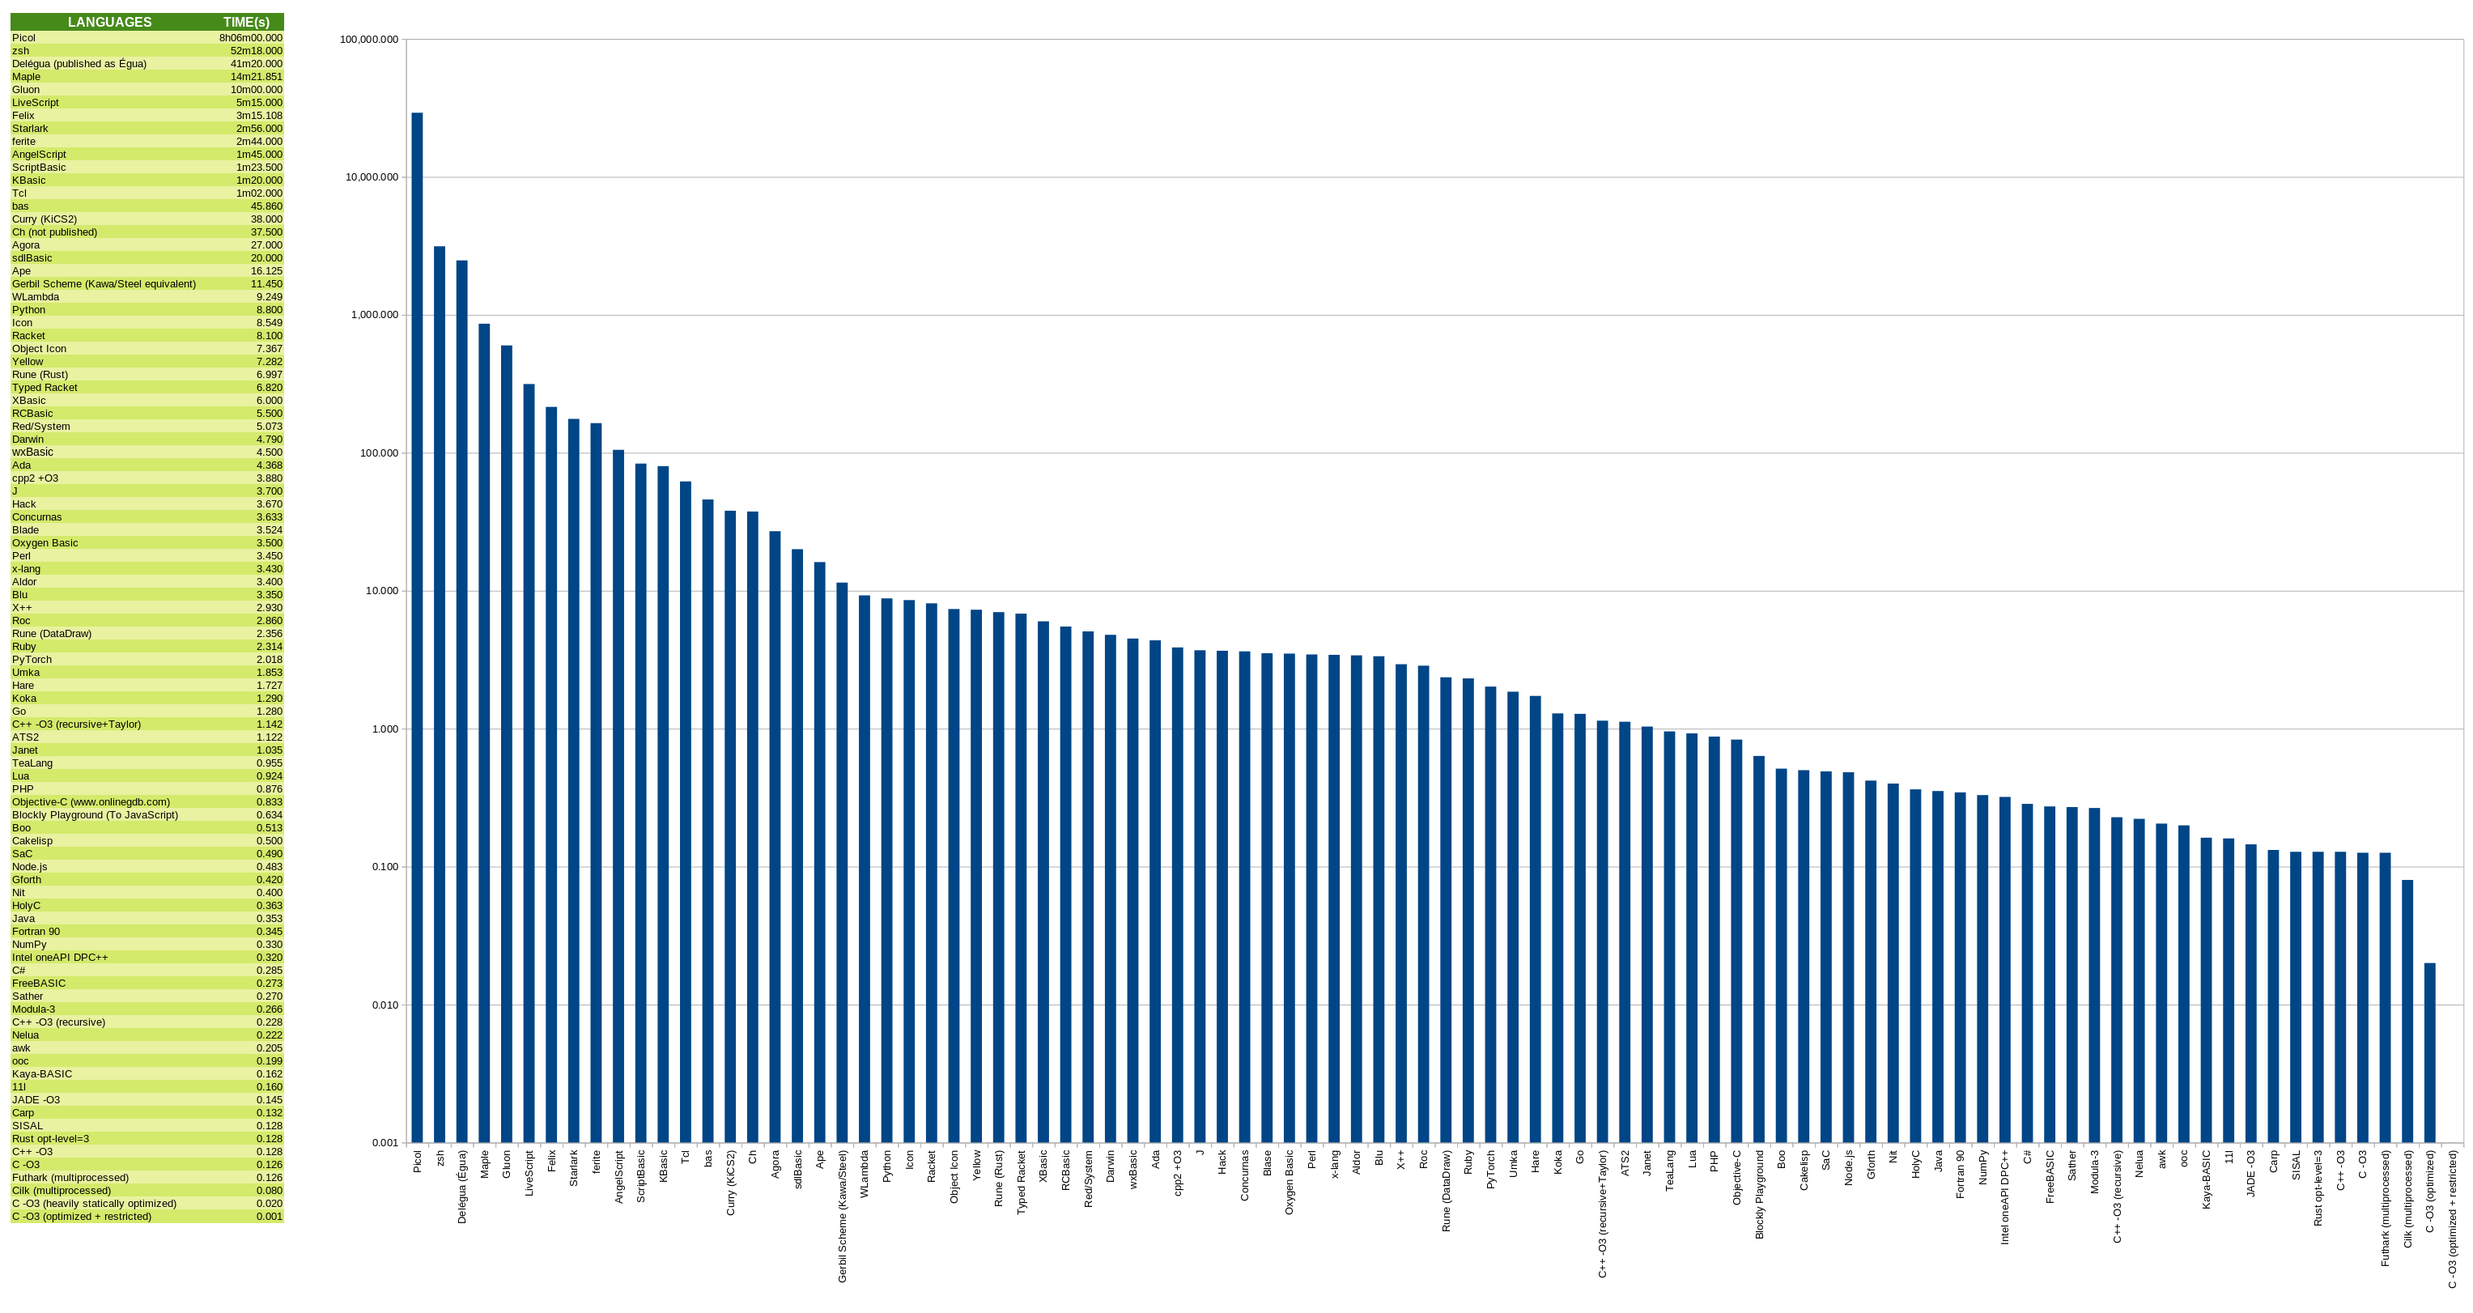
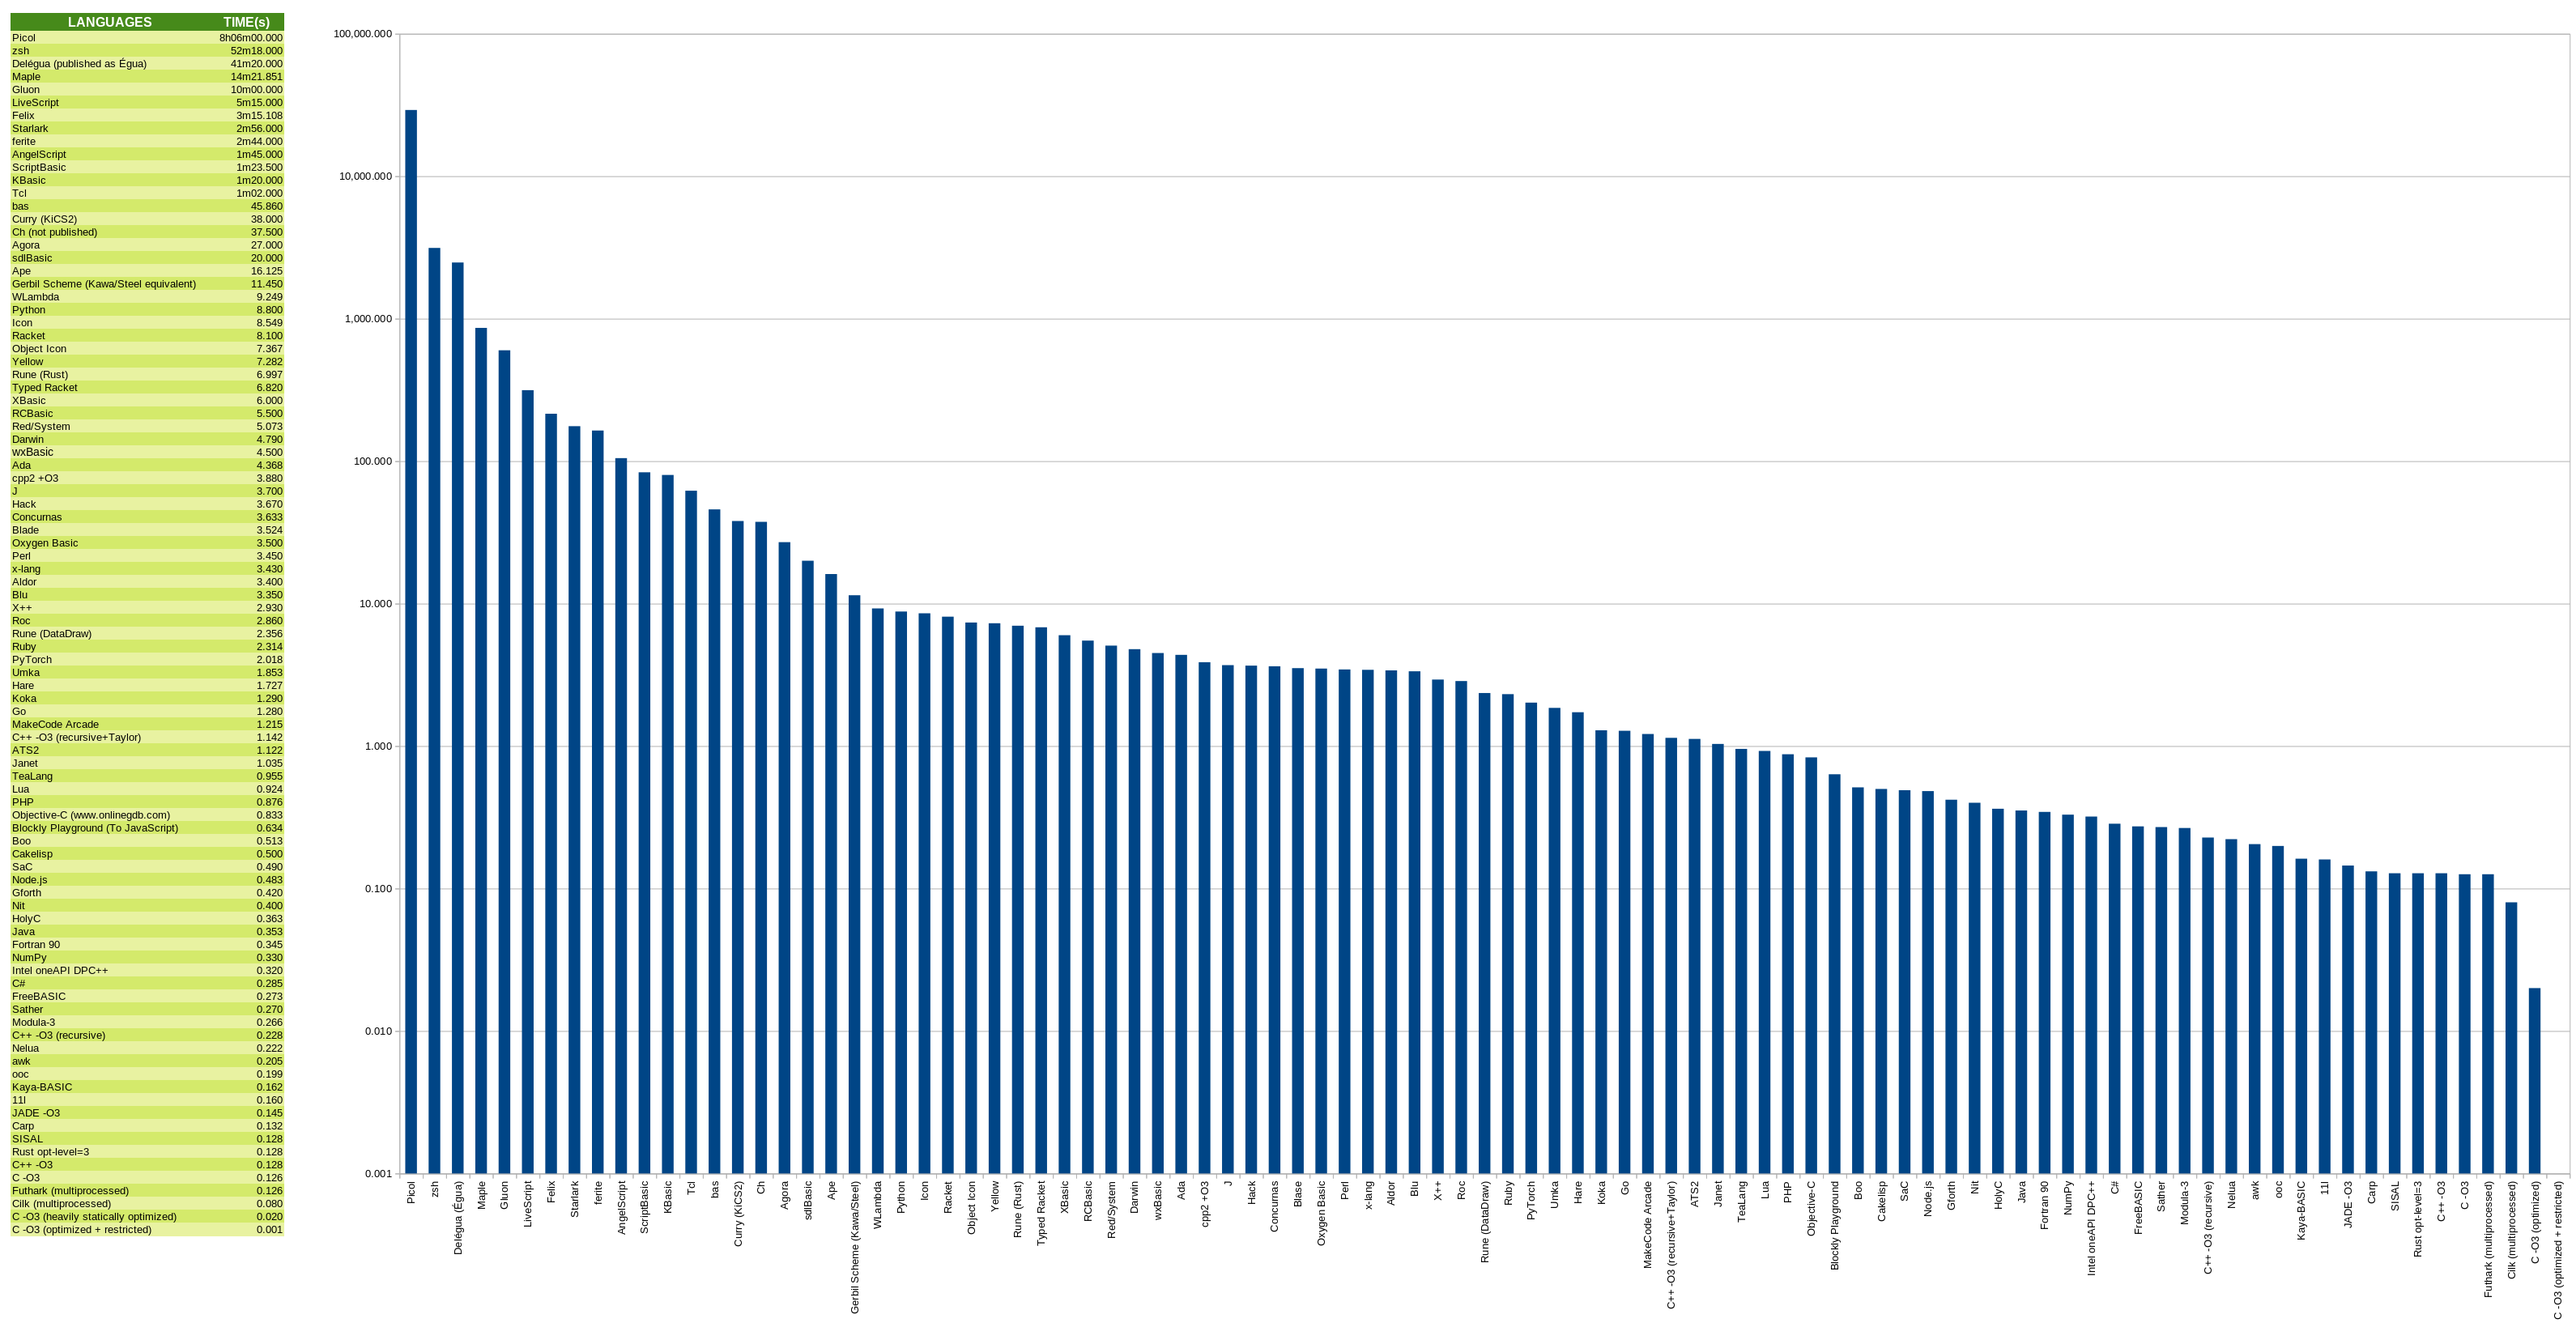
Add files via upload
+ MakeCode Arcade

Changed region(s): [[0.0, 0.0, 1.0, 0.9864]]

diff --git a/SOLUCOES.md b/SOLUCOES.md
@@ -863,6 +863,11 @@ funções: [jurosf.bend](jurosf.bend)
 
 [juros.magma](juros.magma)
 
+### MakeCode Arcade 🧠 🚀 🏛 🔧 💡 💖 ✍
+
+[Juros](https://arcade.makecode.com/S46829-97315-00721-56883)
+
+
 ### Maple (27/06/2026) 🧠
 
 [juros.maple](juros.maple)
